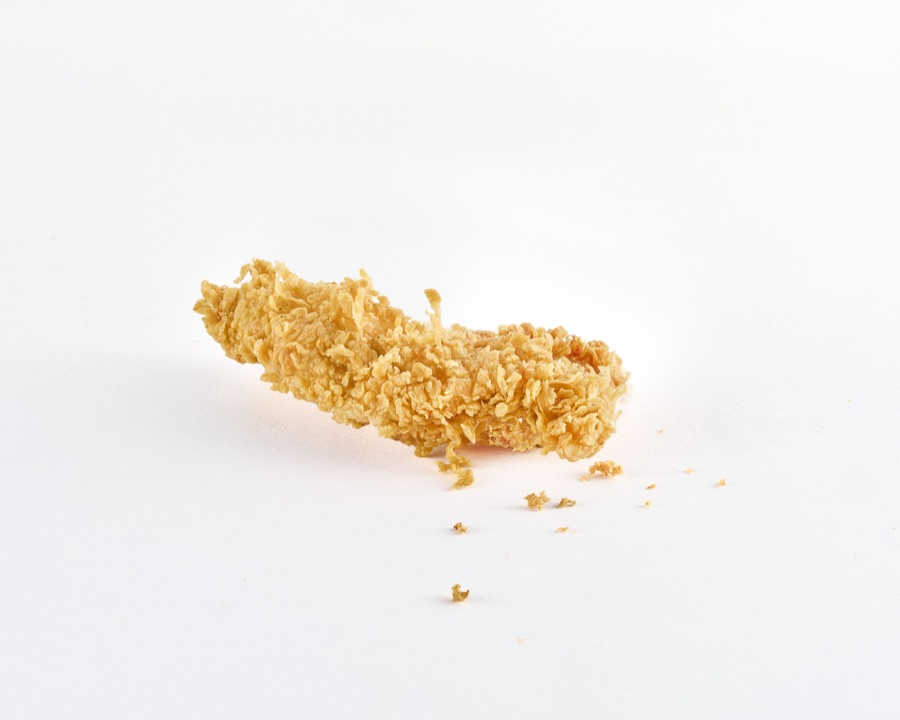
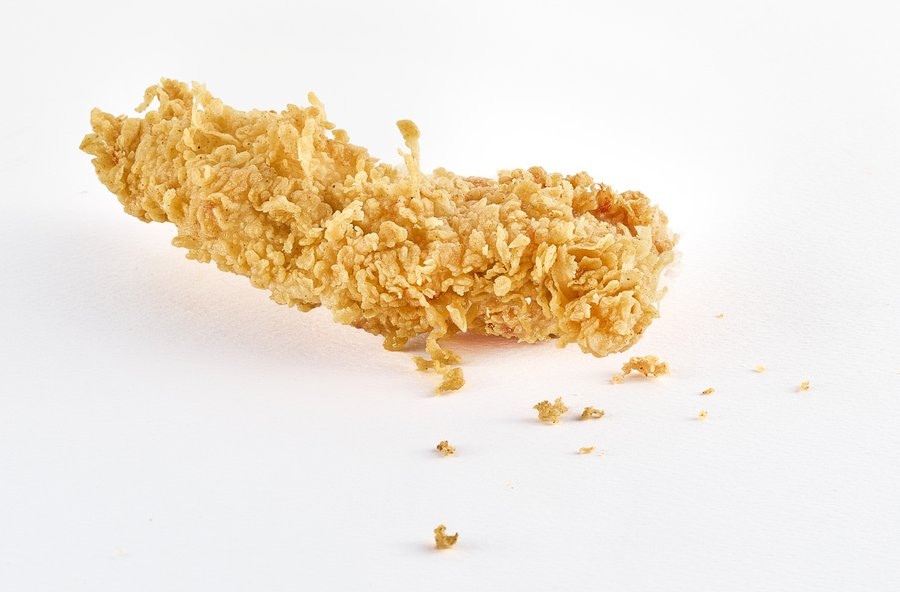
Remove outline around menu card photos, fix chicken strips crop
The previous object-fit: contain change padded and boxed every photo,
creating a visible mismatched-background outline around each one.
Revert menu card images to object-fit: cover (fills the card, no
outline) for all items. The one photo that genuinely looked empty
under cover — chicken strips, a single strip lost in a mostly-white
frame — is fixed by cropping the source image tighter around the food
instead of special-casing it in CSS.

Claude-Session: https://claude.ai/code/session_012PfUzUF6YgQtNdNU5jQ21M

diff --git a/style.css b/style.css
@@ -758,11 +758,9 @@ body.lang-locked { overflow: hidden; }
 .card-media {
   position: relative;
   height: 148px;
-  padding: var(--space-xs);
-  background: var(--color-surface);
+  background: var(--color-bg);
   border-bottom: var(--border-thick) solid var(--color-ink);
   overflow: hidden;
-  box-sizing: border-box;
 }
 .card-media picture {
   display: block;
@@ -772,7 +770,7 @@ body.lang-locked { overflow: hidden; }
 .card-media img {
   width: 100%;
   height: 100%;
-  object-fit: contain;
+  object-fit: cover;
   transition: transform var(--duration-slow) var(--ease-standard);
 }
 .ticket-card:hover .card-media img,
